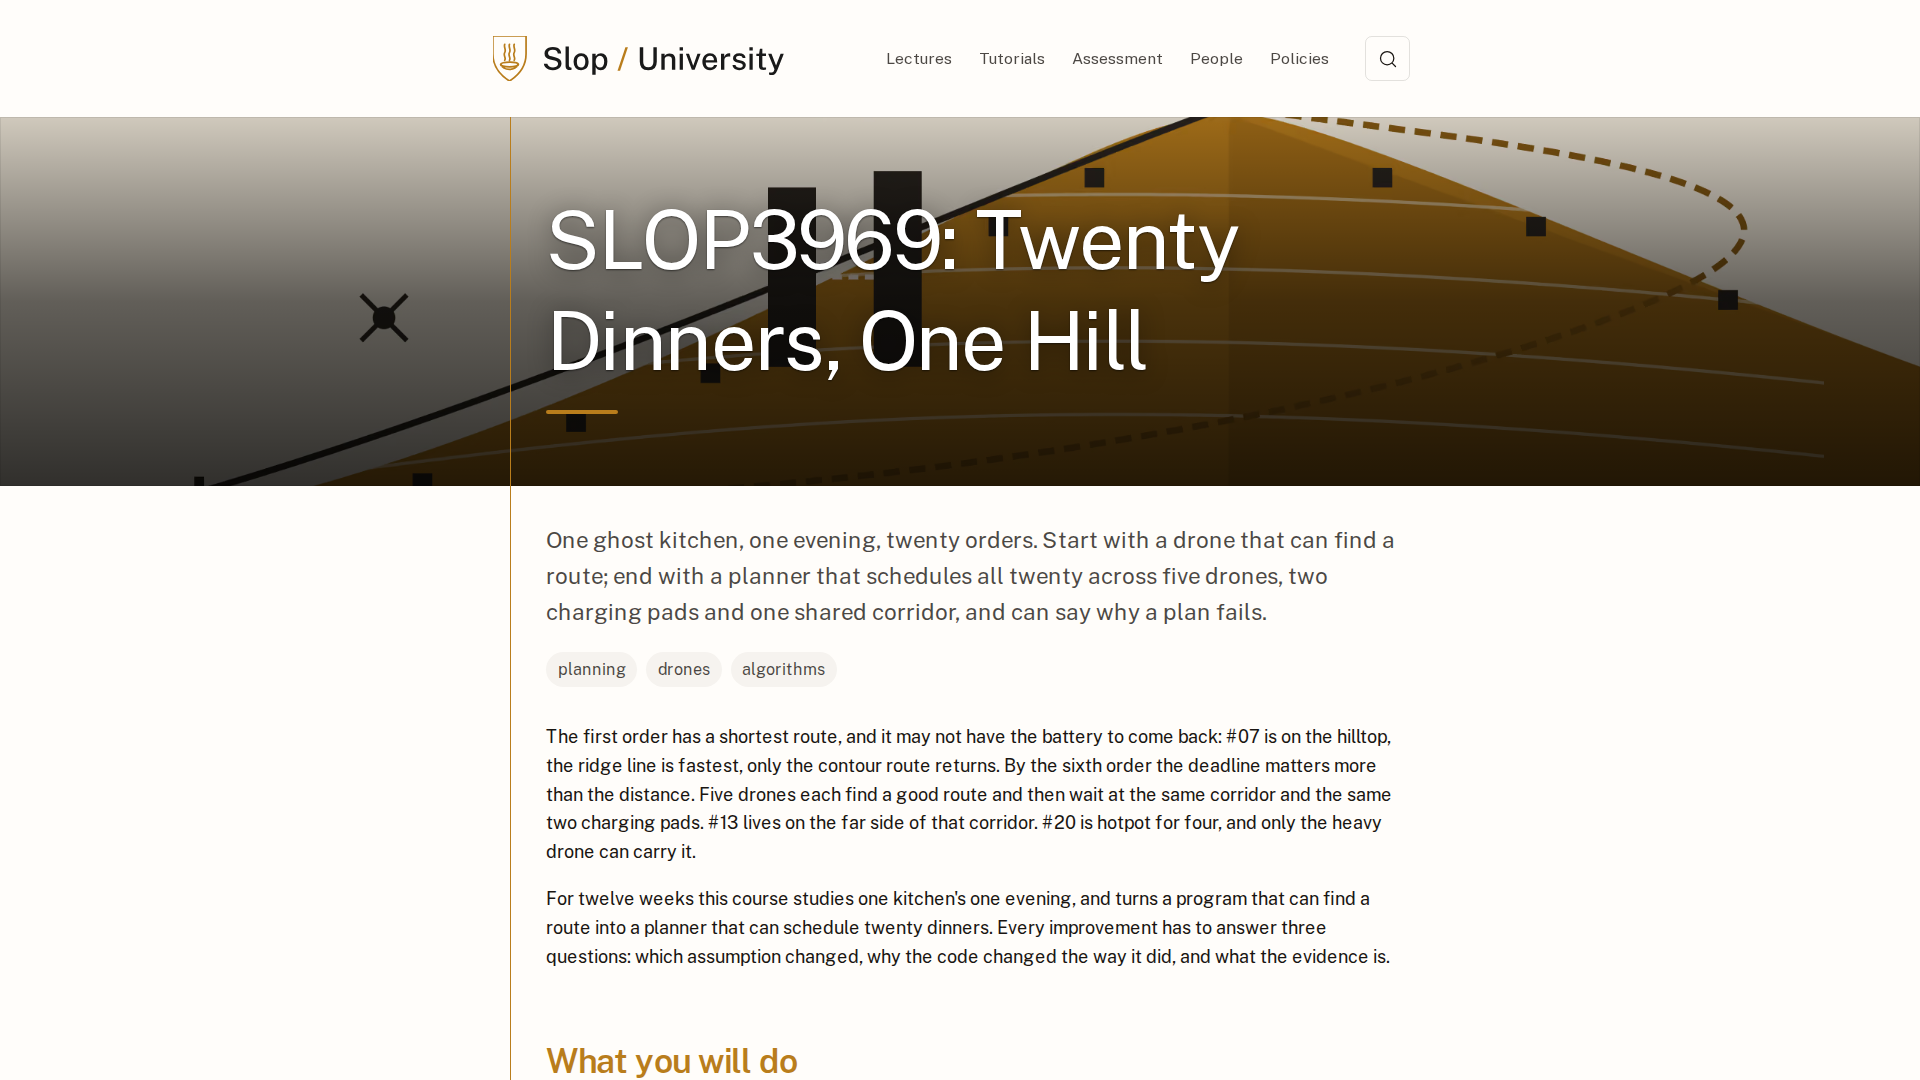
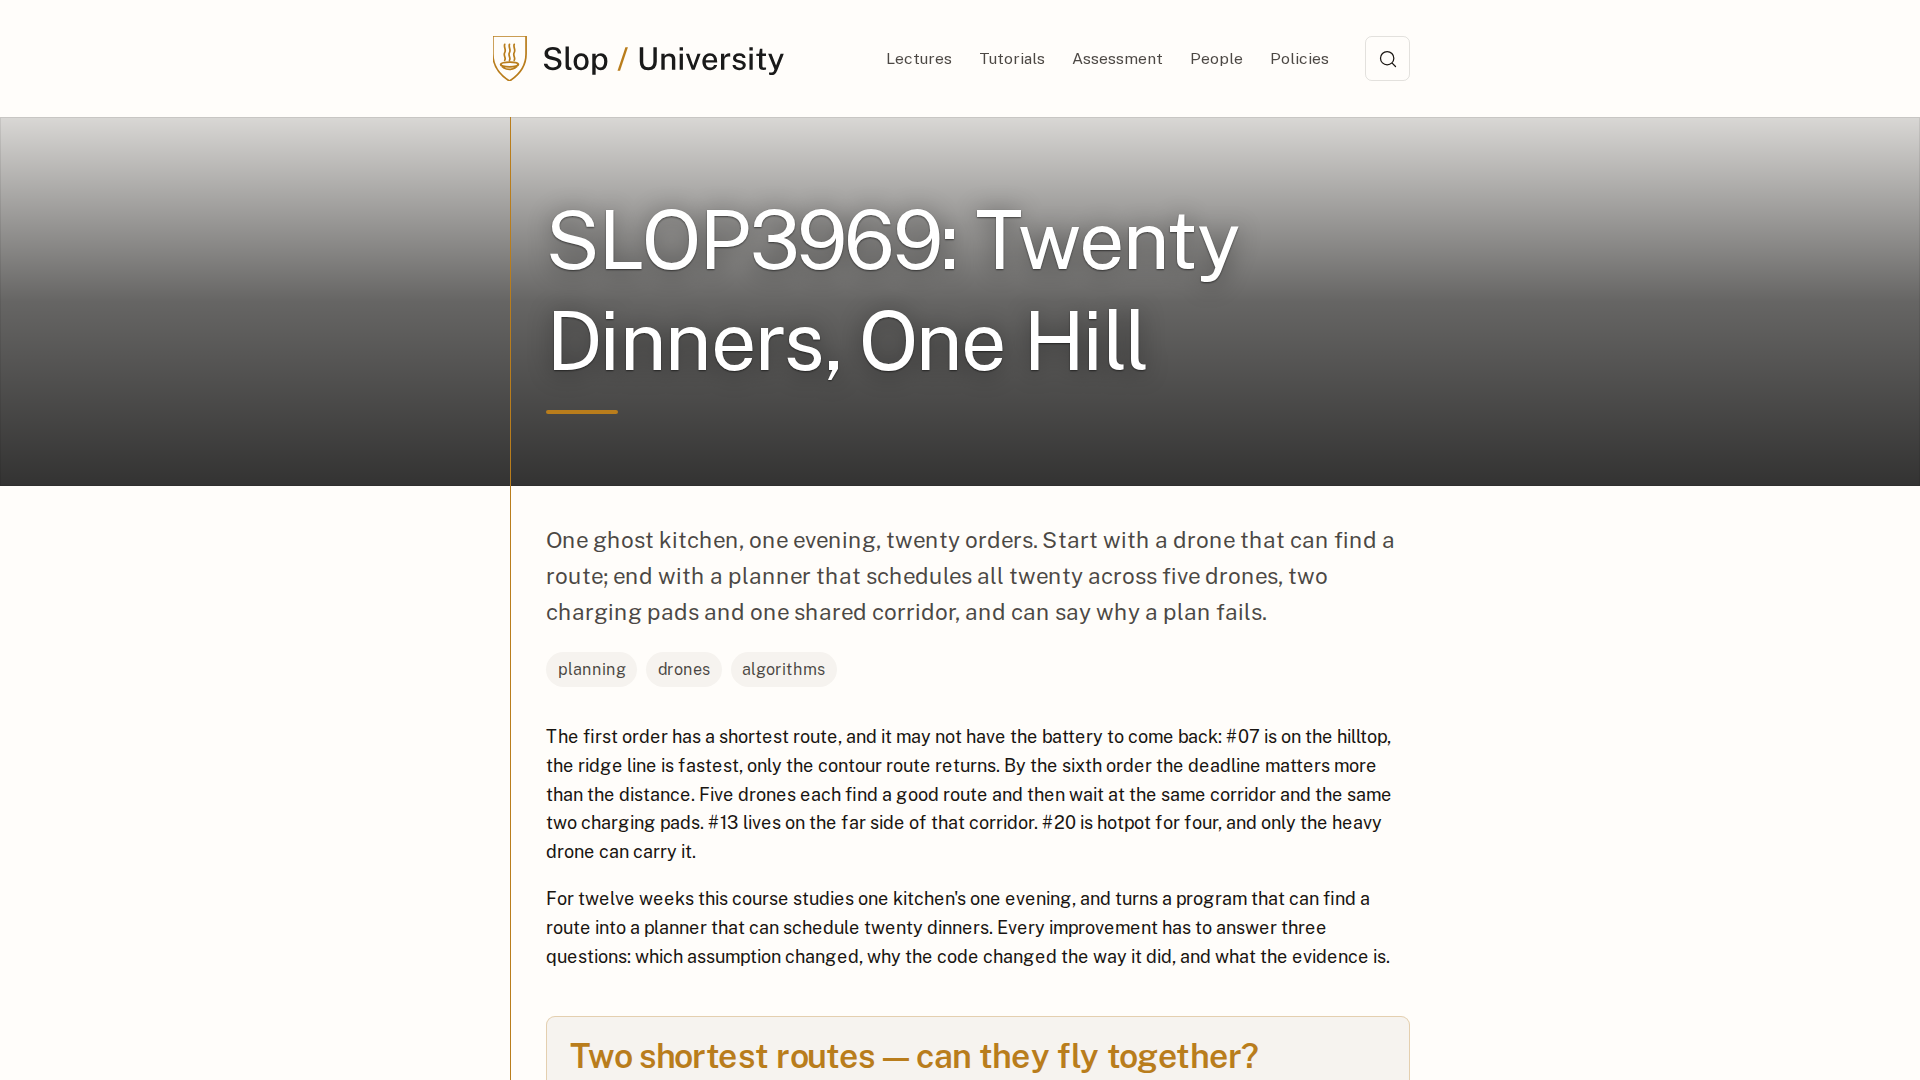
home: two shortest routes, one corridor
A flies the kitchen's shortest route out to #13 and B the shortest
route back; their corridor intervals overlap. Three arrangements as
radio buttons — both as planned, B first with A hovering at the west
end, A round the ridge — each costed by the engine and checked by the
validator, with the corridor timeline drawn. The same case sits on the
week 9 tutorial. The workbench takes a case key and a title.

diff --git a/src/workbench/corridor-case.ts b/src/workbench/corridor-case.ts
@@ -1,0 +1,156 @@
+// The home page and week 9: two shortest routes through one corridor. A is
+// flying out to #13; B is flying back. Each route is the answer week 2 gives.
+// Together they need the corridor at the same time. Three arrangements, each
+// costed by the engine and checked by the validator.
+
+import type { FleetData, MapData, OrdersData, RulesData } from "../data/schema.ts";
+import caseJson from "../data/cases/corridor-two-drones.json";
+import fleetJson from "../data/fleet.json";
+import mapJson from "../data/map.json";
+import ordersJson from "../data/orders.json";
+import rulesJson from "../data/rules.json";
+import { edgeEnergy, edgeTicks, fromMap, hoverEnergy, type MapGraph } from "../engine/graph.ts";
+import { ReservationTable } from "../engine/reservations.ts";
+import { search } from "../engine/search.ts";
+import { validate } from "../engine/validate.ts";
+import type { CaseDef, Control } from "./case.ts";
+import { esc, kJ, table } from "./html.ts";
+import { minimap } from "./minimap.ts";
+
+const map = mapJson as MapData;
+const fleet = fleetJson as FleetData;
+const rules = rulesJson as unknown as RulesData;
+const orders = (ordersJson as OrdersData).orders;
+const L = fleet.types.find((t) => t.id === "L")!;
+const order = orders.find((o) => o.id === caseJson.a.order)!;
+const loaded: MapGraph = fromMap(map, L, "time");
+const corridorEdges = map.edges.filter((e) => e.resource === "corridor");
+const noCorridor: MapGraph = { ...loaded, neighbours: (id) => loaded.neighbours(id).filter((n) => !corridorEdges.some((e) => e.id === n.edge)) };
+
+interface Flight {
+  path: string[];
+  ticks: number;
+  energy: number;
+  /** Corridor entry and exit, relative to take-off; undefined when the route avoids it. */
+  corridor?: { enter: number; exit: number };
+}
+
+function flight(graph: MapGraph, from: string, to: string, payloadKg: number): Flight {
+  const r = search(graph, from, to);
+  if (r.status !== "found") throw new Error(`no route ${from} → ${to}`);
+  let t = 0, energy = 0;
+  let corridor: Flight["corridor"];
+  for (let i = 1; i < r.path!.length; i++) {
+    const e = map.edges.find((x) => x.from === r.path![i - 1] && x.to === r.path![i])!;
+    const dt = edgeTicks(e, L);
+    if (e.resource === "corridor") corridor = { enter: t, exit: t + dt };
+    t += dt;
+    energy += edgeEnergy(e, L, payloadKg);
+  }
+  return { path: r.path!, ticks: t, energy, corridor };
+}
+
+const A = flight(loaded, map.kitchen, order.node, order.weight);
+const A_DETOUR = flight(noCorridor, map.kitchen, order.node, order.weight);
+const B = flight(loaded, order.node, map.kitchen, 0);
+// B takes off so that it enters the corridor leadTicks before A would.
+const bTakeOff = caseJson.a.takeOff + A.corridor!.enter - caseJson.b.leadTicks - B.corridor!.enter;
+const bWindow = { start: bTakeOff + B.corridor!.enter, end: bTakeOff + B.corridor!.exit };
+
+export interface CorridorState {
+  arrangement: "both" | "wait" | "detour";
+}
+
+interface Outcome {
+  label: string;
+  aPath: string[];
+  aCorridor?: { start: number; end: number };
+  wait: number;
+  arrive: number;
+  energy: number;
+  verdict: string;
+  ok: boolean;
+}
+
+function outcome(arr: CorridorState["arrangement"]): Outcome {
+  const t0 = caseJson.a.takeOff;
+  if (arr === "detour") {
+    return { label: "A detours around the ridge", aPath: A_DETOUR.path, wait: 0, arrive: t0 + A_DETOUR.ticks, energy: A_DETOUR.energy, verdict: "no shared resource used", ok: true };
+  }
+  const table = new ReservationTable({ corridor: 1 });
+  table.reserve({ resource: "corridor", owner: "B", start: bWindow.start, end: bWindow.end });
+  const dur = A.corridor!.exit - A.corridor!.enter;
+  const planned = t0 + A.corridor!.enter;
+  const enter = arr === "wait" ? table.earliestFree("corridor", planned, dur, "A") : planned;
+  const wait = enter - planned;
+  const occupancies = [
+    { resource: "corridor", owner: "B", start: bWindow.start, end: bWindow.end },
+    { resource: "corridor", owner: "A", start: enter, end: enter + dur },
+  ];
+  const v = validate({ orders: [order.id], activities: [], occupancies, deliveries: [], capacities: Object.fromEntries(Object.entries(rules.resources).map(([k, v]) => [k, v.capacity])), cutoff: rules.evening.cutoffTick });
+  const conflict = v.violations.find((x) => x.rule === "capacity");
+  return {
+    label: arr === "wait" ? "B first; A waits at the west end" : "both fly their own shortest route",
+    aPath: A.path,
+    aCorridor: { start: enter, end: enter + dur },
+    wait,
+    arrive: t0 + A.ticks + wait,
+    energy: A.energy + hoverEnergy(L, wait),
+    verdict: conflict ? `conflict: ${conflict.detail}` : `validated: no violation; A holds the corridor [${enter}, ${enter + dur})`,
+    ok: !conflict,
+  };
+}
+
+function timeline(o: Outcome): string {
+  const t1 = Math.max(bWindow.end, o.aCorridor?.end ?? 0, 1) + 10;
+  const W = 640, H = 96, x = (t: number) => 60 + (t / t1) * (W - 80);
+  const bar = (y: number, s: number, e: number, cls: string, txt: string) => `<rect x="${x(s).toFixed(1)}" y="${y}" width="${(x(e) - x(s)).toFixed(1)}" height="18" class="${cls}"/><text x="${(x(s) + 4).toFixed(1)}" y="${y + 13}" font-size="11" class="mm-label">${esc(txt)}</text>`;
+  const overlap = o.aCorridor && Math.max(bWindow.start, o.aCorridor.start) < Math.min(bWindow.end, o.aCorridor.end)
+    ? `<rect x="${x(Math.max(bWindow.start, o.aCorridor.start)).toFixed(1)}" y="26" width="${(x(Math.min(bWindow.end, o.aCorridor.end)) - x(Math.max(bWindow.start, o.aCorridor.start))).toFixed(1)}" height="46" class="tl-conflict"/>`
+    : "";
+  return `<svg viewBox="0 0 ${W} ${H}" class="timeline" role="img" aria-label="Corridor occupancy: B holds ${bWindow.start} to ${bWindow.end}${o.aCorridor ? `; A holds ${o.aCorridor.start} to ${o.aCorridor.end}` : "; A does not use the corridor"}${overlap ? "; they overlap" : ""}.">
+    <text x="4" y="40" font-size="12" class="mm-label">B</text><text x="4" y="66" font-size="12" class="mm-label">A</text>
+    ${overlap}${bar(28, bWindow.start, bWindow.end, "tl-b", `B ${bWindow.start}–${bWindow.end}`)}${o.aCorridor ? bar(54, o.aCorridor.start, o.aCorridor.end, o.ok ? "tl-a" : "tl-a tl-bad", `A ${o.aCorridor.start}–${o.aCorridor.end}`) : `<text x="60" y="67" font-size="11" class="mm-label">A avoids the corridor</text>`}
+    <line x1="60" y1="80" x2="${W - 20}" y2="80" class="tl-axis"/><text x="60" y="93" font-size="10" class="mm-label">0 s</text><text x="${W - 20}" y="93" font-size="10" text-anchor="end" class="mm-label">${t1} s after A's take-off</text>
+  </svg>`;
+}
+
+export const corridorCase: CaseDef<CorridorState> = {
+  key: "corridor",
+  weeks: [9],
+  caption: () => ({
+    decision: "Two routes, each the shortest for its drone, want the same corridor at the same time: who goes first, who waits, or who goes round.",
+    breaks: "Week 2's answer: a shortest path is not yet a plan.",
+  }),
+  initial: () => ({ arrangement: "both" }),
+  controls: (state): Control[] => [
+    { id: "arrangement", label: "Arrangement", kind: "radio", primary: true, value: state.arrangement, options: [
+      { value: "both", label: "both depart as planned" },
+      { value: "wait", label: "B first, A waits" },
+      { value: "detour", label: "A detours" },
+    ] },
+  ],
+  apply: (state, action) => (action.id === "arrangement" && action.value ? { arrangement: action.value as CorridorState["arrangement"] } : state),
+  render: (state) => {
+    const t0 = Date.now();
+    const o = outcome(state.arrangement);
+    const all = (["both", "wait", "detour"] as const).map((a) => ({ a, o: outcome(a) }));
+    const parts: string[] = [];
+    parts.push(minimap(map, {
+      routes: [{ path: B.path, cls: "route-fastest", label: "B, flying back" }, { path: o.aPath, cls: o.ok ? "route-chosen" : "route-found", label: `A, ${o.label}` }],
+      orders: [order],
+      box: [200, 400, 1500, 1500],
+      ariaLabel: `The ridge and the corridor. B's route back is dashed; A's route out to ${order.id} is solid: ${o.label}.`,
+    }));
+    parts.push(timeline(o));
+    parts.push(`<p class="wb-summary"><strong>${esc(o.label)}:</strong> ${o.ok ? "✓" : "✗"} ${esc(o.verdict)}. A reaches ${order.id} ${o.arrive} s after take-off${o.wait ? `, ${o.wait} s of them hovering at the west end` : ""}, using ${kJ(o.energy)}.</p>`);
+    parts.push(table(
+      [{ key: "label", label: "arrangement" }, { key: "corridor", label: "A in the corridor" }, { key: "arrive", label: "A arrives (s)", align: "right" }, { key: "wait", label: "hover (s)", align: "right" }, { key: "energy", label: "A's energy", align: "right" }, { key: "verdict", label: "validator" }],
+      all.map(({ a, o: x }) => ({ label: x.label + (a === state.arrangement ? " (shown)" : ""), corridor: x.aCorridor ? `[${x.aCorridor.start}, ${x.aCorridor.end})` : "—", arrive: x.arrive, wait: x.wait, energy: kJ(x.energy), verdict: x.ok ? "✓ no violation" : "✗ conflict" })),
+      `B holds the corridor [${bWindow.start}, ${bWindow.end}). The three arrangements for A, all checked by the same validator`,
+      (r) => (String(r.verdict).startsWith("✗") ? "wb-bad" : String(r.label).includes("(shown)") ? "wb-good" : ""),
+    ));
+    const ms = Date.now() - t0;
+    return { html: parts.join(""), status: `computed in your browser · 3 arrangements, validator run on each · ${ms} ms · engine 0.1 · case corridor-two-drones` };
+  },
+};

diff --git a/src/workbench/cases.ts b/src/workbench/cases.ts
@@ -1,10 +1,15 @@
 import type { CaseDef } from "./case.ts";
+import { corridorCase } from "./corridor-case.ts";
 import { edgesCase } from "./edges-case.ts";
 import { labelsCase } from "./labels-case.ts";
 import { searchCase } from "./search-case.ts";
 import { timetableCase } from "./timetable-case.ts";
 
-const all: CaseDef<any>[] = [edgesCase, searchCase, labelsCase, timetableCase];
+const all: CaseDef<any>[] = [edgesCase, searchCase, labelsCase, timetableCase, corridorCase];
+
+export function caseByKey(key: string): CaseDef<any> | undefined {
+  return all.find((c) => c.key === key);
+}
 
 export function caseFor(week: number): CaseDef<any> | undefined {
   return all.find((c) => c.weeks.includes(week));
@@ -14,6 +19,10 @@ export function renderControls(def: CaseDef<any>, state: unknown, week: number, 
   return def
     .controls(state, week)
     .map((c) => {
+      if (c.kind === "radio") {
+        const opts = (c.options ?? []).map((o) => `<label class="wb-radio"><input type="radio" name="${id}-${c.id}" data-control="${c.id}" value="${o.value}"${o.value === c.value ? " checked" : ""}> ${o.label}</label>`).join("");
+        return `<fieldset class="wb-control wb-radios${c.primary ? " wb-primary-group" : ""}"><legend>${c.label}</legend>${opts}</fieldset>`;
+      }
       if (c.kind === "select") {
         const opts = (c.options ?? []).map((o) => `<option value="${o.value}"${o.value === c.value ? " selected" : ""}>${o.label}</option>`).join("");
         return `<label class="wb-control"><span>${c.label}</span> <select data-control="${c.id}" name="${id}-${c.id}">${opts}</select></label>`;

diff --git a/scripts/shot.ts b/scripts/shot.ts
@@ -34,6 +34,7 @@ const VIEWPORTS = [
 // The pages a marker is likely to open, one of each kind.
 const PAGES = [
   { name: "home", path: "/" },
+  { name: "home-wait", path: "/?wb=" + encodeURIComponent('{"arrangement":"wait"}') },
   { name: "lectures", path: "/lectures/" },
   { name: "tutorials", path: "/sessions/" },
   { name: "assessments", path: "/assessments/" },

diff --git a/src/workbench/case.ts b/src/workbench/case.ts
@@ -11,7 +11,7 @@ export interface ControlOption {
 export interface Control {
   id: string;
   label: string;
-  kind: "select" | "button";
+  kind: "select" | "button" | "radio";
   options?: ControlOption[];
   value?: string;
   /** The one control the page leads with. */
